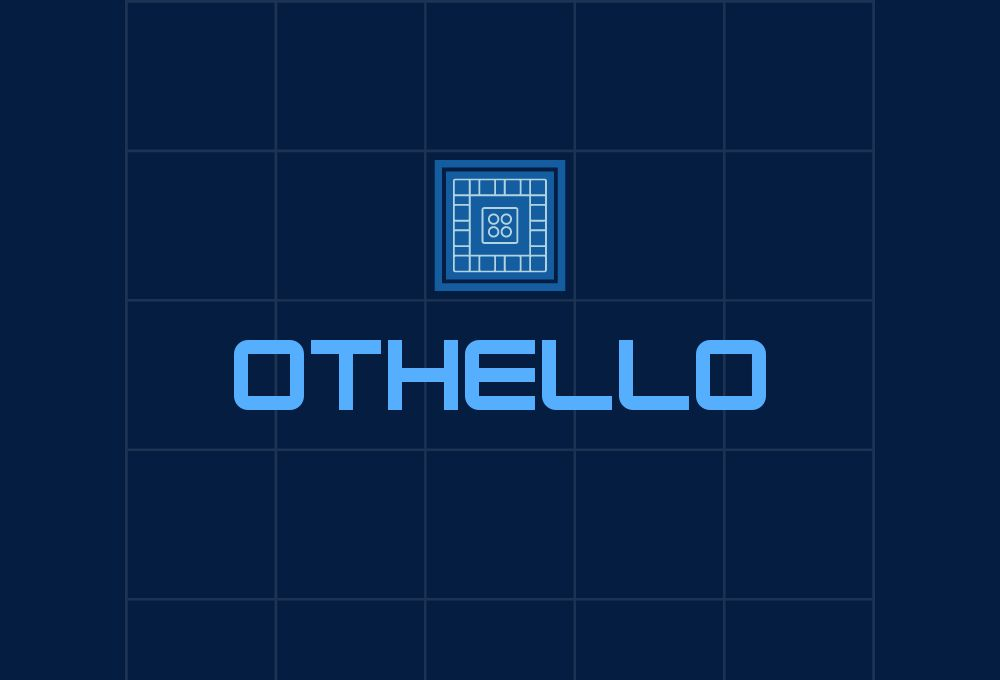
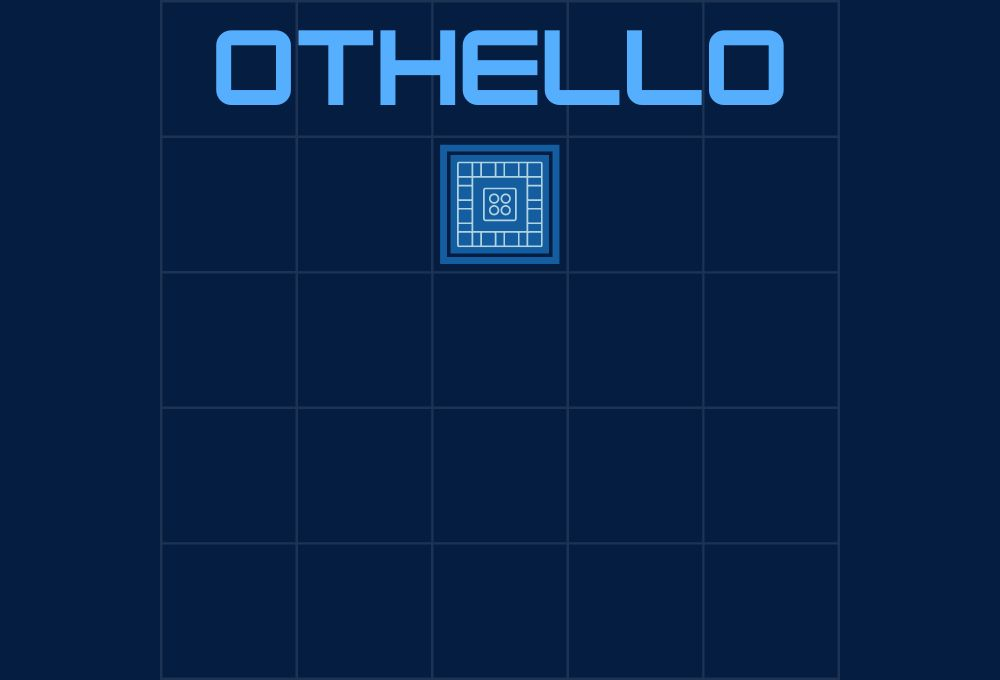
main menu button

Changed region(s): [[0.217, 0.0309, 0.806, 0.1544], [0.217, 0.4941, 0.775, 0.6176], [0.434, 0.1853, 0.589, 0.4324]]

diff --git a/main_menu.py b/main_menu.py
@@ -3,6 +3,7 @@ from button import Button
 import Othello_AI
 import Othello_AI_Pruning
 import Othello_PVP
+import menu_button
 
 pygame.init()
 
@@ -10,6 +11,9 @@ SCREEN = pygame.display.set_mode((1000, 680))
 pygame.display.set_caption("Menu")
 
 BG = pygame.image.load("assets/Othello.jpg")
+
+image = pygame.image.load("assets/p1 vs ai.png").convert_alpha()
+PLAY_BUTTON = menu_button.Button(0, 0, image, 0.8)
 
 def get_font(size): # Returns Press-Start-2P in the desired size
     return pygame.font.Font("assets/font.ttf", size)
@@ -29,45 +33,18 @@ def othello_PVP():
         SCREEN.fill("black")
         Othello_PVP.main()
 
-def main_menu():
-    while True:
+
+
+while True:
+    
         SCREEN.blit(BG, (0, 0))
 
-        MENU_MOUSE_POS = pygame.mouse.get_pos()
+        #PLAY_BUTTON.draw(SCREEN)
 
-        #MENU_TEXT = get_font(100).render("OTHELLO", True, "#b68f40")
-        #MENU_RECT = MENU_TEXT.get_rect(center=(525, 100))
+        if PLAY_BUTTON.draw(SCREEN):
+           othello_AI_Pruning()
 
-        PLAY_BUTTON = Button(image=pygame.image.load("assets/Play Rect.png"), pos=(510, 250), 
-                            text_input="AI", font=get_font(50), base_color="#d7fcd4", hovering_color="White")
-        OPTIONS_BUTTON = Button(image=pygame.image.load("assets/Options Rect.png"), pos=(510, 370), 
-                            text_input="AI-Pruning", font=get_font(50), base_color="#d7fcd4", hovering_color="White")
-        OPTIONS_BUTTON2 = Button(image=pygame.image.load("assets/Play Rect.png"), pos=(510, 490), 
-                            text_input="PVP", font=get_font(50), base_color="#d7fcd4", hovering_color="White")
-        QUIT_BUTTON = Button(image=pygame.image.load("assets/Quit Rect.png"), pos=(510, 610), 
-                            text_input="QUIT", font=get_font(50), base_color="#d7fcd4", hovering_color="White")
+        pygame.display.update()  
 
-        #SCREEN.blit(MENU_TEXT, MENU_RECT)
 
-        for button in [PLAY_BUTTON, OPTIONS_BUTTON, OPTIONS_BUTTON2, QUIT_BUTTON]:
-            button.changeColor(MENU_MOUSE_POS)
-            button.update(SCREEN)
         
-        for event in pygame.event.get():
-            if event.type == pygame.QUIT:
-                pygame.quit()
-                sys.exit()
-            if event.type == pygame.MOUSEBUTTONDOWN:
-                if PLAY_BUTTON.checkForInput(MENU_MOUSE_POS):
-                    othello_AI()
-                if OPTIONS_BUTTON.checkForInput(MENU_MOUSE_POS):
-                    othello_AI_Pruning()
-                if OPTIONS_BUTTON2.checkForInput(MENU_MOUSE_POS):
-                    othello_PVP()
-                if QUIT_BUTTON.checkForInput(MENU_MOUSE_POS):
-                    pygame.quit()
-                    sys.exit()
-
-        pygame.display.update()
-
-main_menu()

diff --git a/menu_button.py b/menu_button.py
@@ -1,0 +1,30 @@
+import pygame
+
+#button class
+class Button():
+	def __init__(self, x, y, image, scale):
+		width = image.get_width()
+		height = image.get_height()
+		self.image = pygame.transform.scale(image, (int(width * scale), int(height * scale)))
+		self.rect = self.image.get_rect()
+		self.rect.topleft = (x, y)
+		self.clicked = False
+
+	def draw(self, surface):
+		action = False
+		#get mouse position
+		pos = pygame.mouse.get_pos()
+
+		#check mouseover and clicked conditions
+		if self.rect.collidepoint(pos):
+			if pygame.mouse.get_pressed()[0] == 1 and self.clicked == False:
+				self.clicked = True
+				action = True
+
+		if pygame.mouse.get_pressed()[0] == 0:
+			self.clicked = False
+
+		#draw button on screen
+		surface.blit(self.image, (self.rect.x, self.rect.y))
+
+		return action
